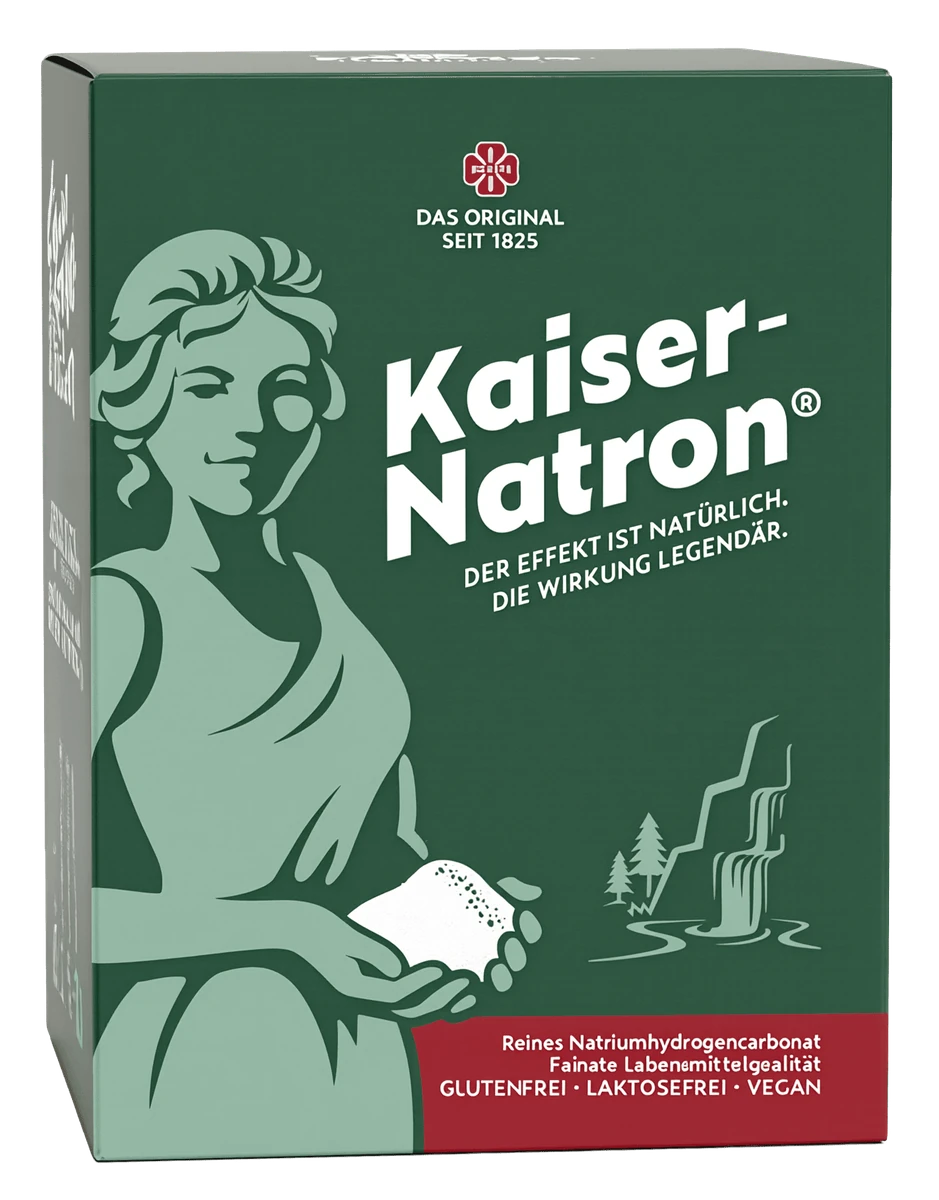
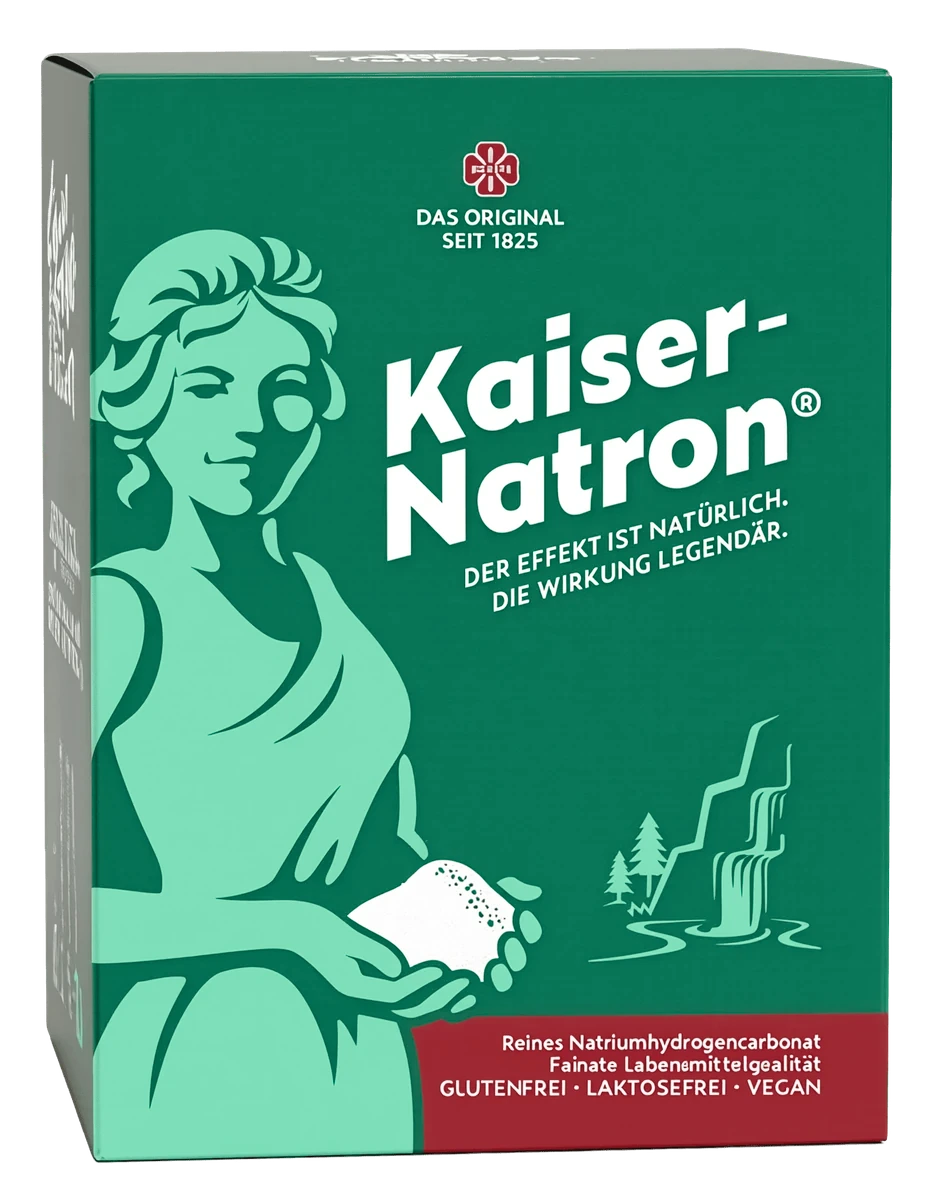
assets: recolour 250 g Großpackung box to the brand green
Replace the 250 g powder box product shot with a render carrying the correct
vivid brand green (matching the 50 g sachet); red band and 3-D side panels
intact. 939×1200 transparent WebP, updated in public/ and dist/. Document the
change and product-image conventions in STYLE-CHANGES.md.

diff --git a/STYLE-CHANGES.md b/STYLE-CHANGES.md
@@ -304,7 +304,27 @@ converted from EPS to SVG.
 
 ---
 
-## 14. Design-system docs page
+## 14. Product image — 250 g Großpackung box recoloured
+
+**Files:** `public/products/kaiser-natron-pulver-250-g-grosspackung.webp`
+(source of truth) and the build copy `dist/products/…` (same filename).
+
+The 250 g box product shot had a muted, grey/pine green that didn't match the
+brighter brand green of the other Kaiser-Natron powder packs (e.g. the 50 g
+sachet `public/products/kaiser-natron-pulver-50-g-beutel.webp`). It was replaced
+with an updated box render carrying the correct vivid brand green (the dark-green
+3-D side panels and the red bottom band are intact).
+
+- **Where product images live:** `public/products/*.webp` (served as static
+  assets; the build mirrors them to `dist/products/*.webp`). Convention:
+  **transparent RGBA, ~1200 px tall**.
+- The replacement was supplied as a 939×1200 transparent PNG and saved straight
+  to WebP (`quality 92`, no scaling needed — already matching the original
+  dimensions), so edges/text stay crisp.
+
+---
+
+## 15. Design-system docs page
 
 **File:** `src/pages/design/ColorsSection.vue`
 
